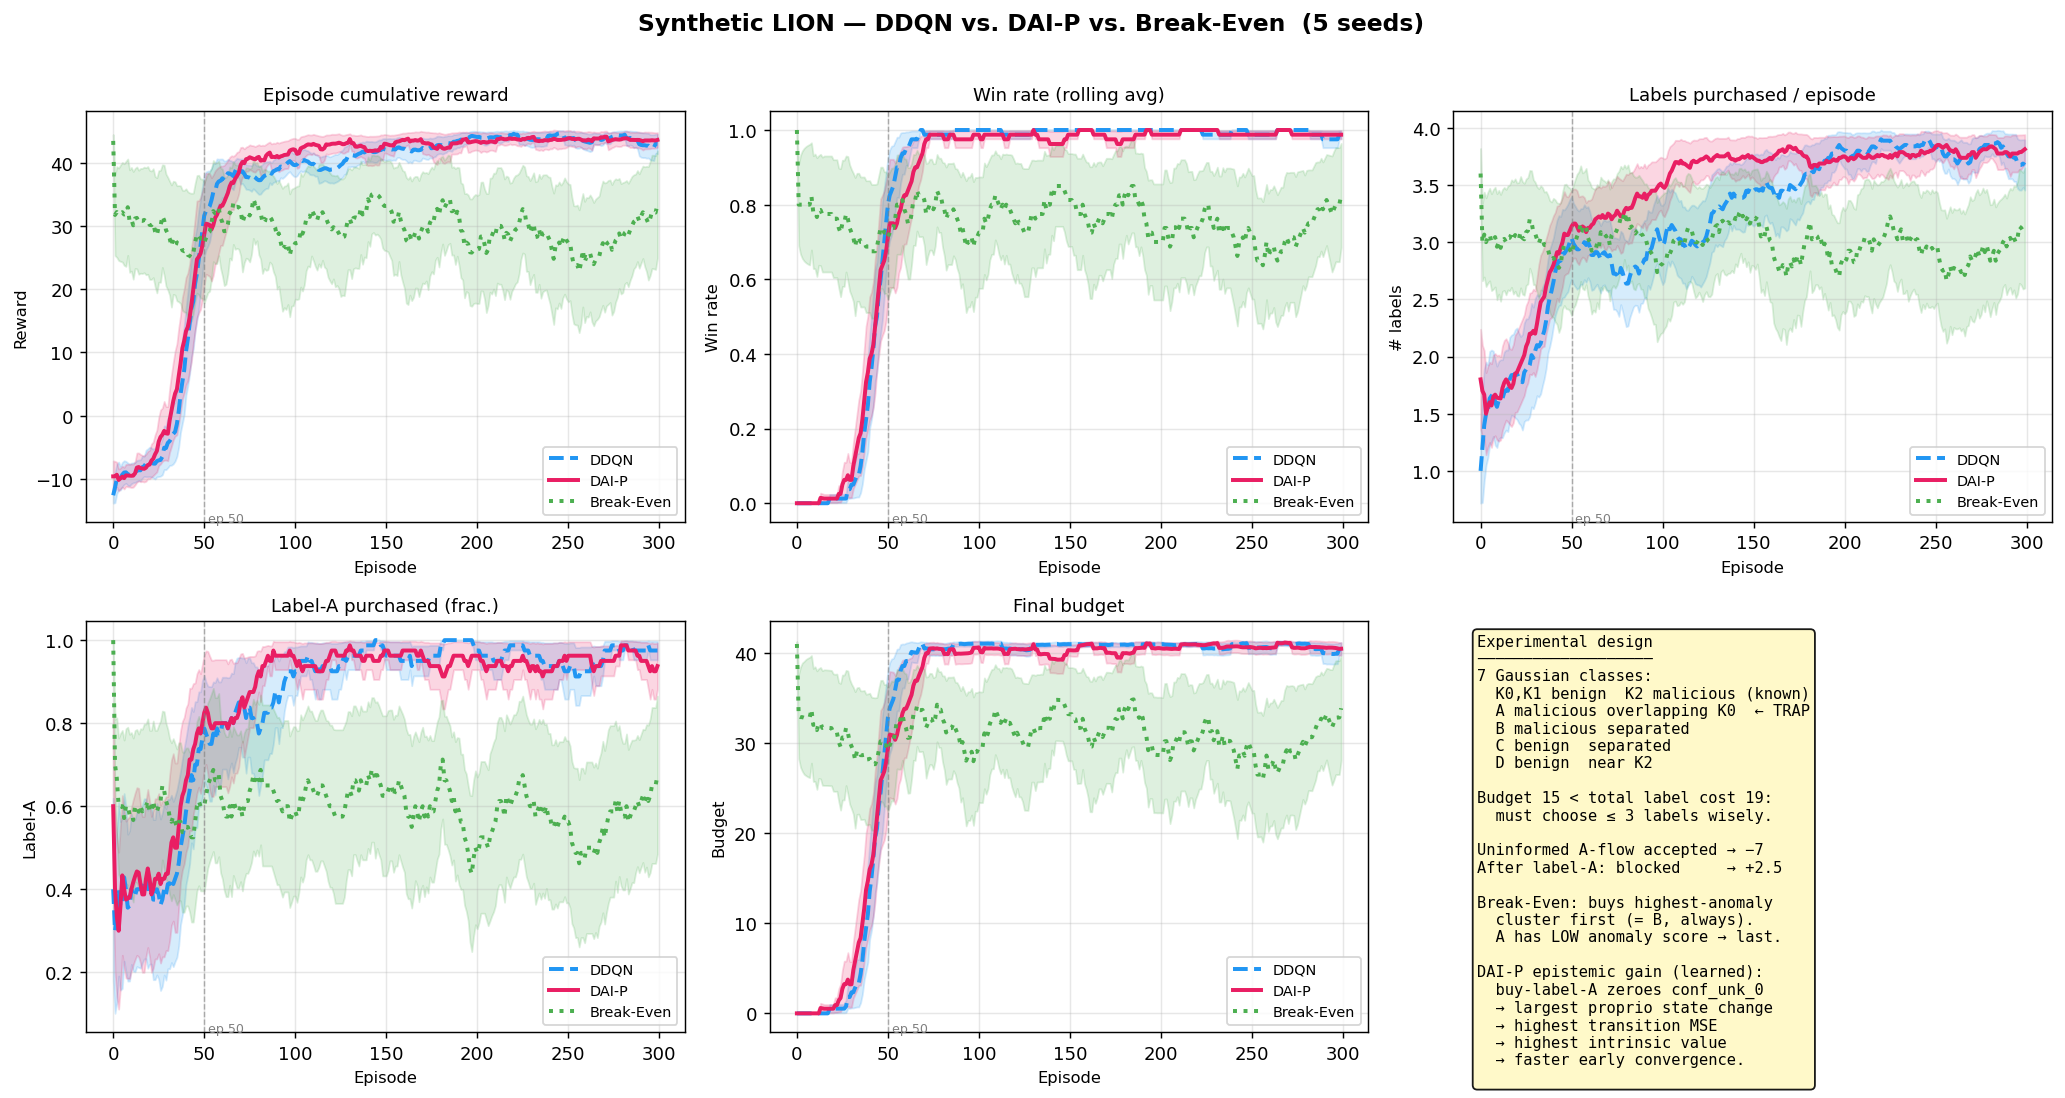
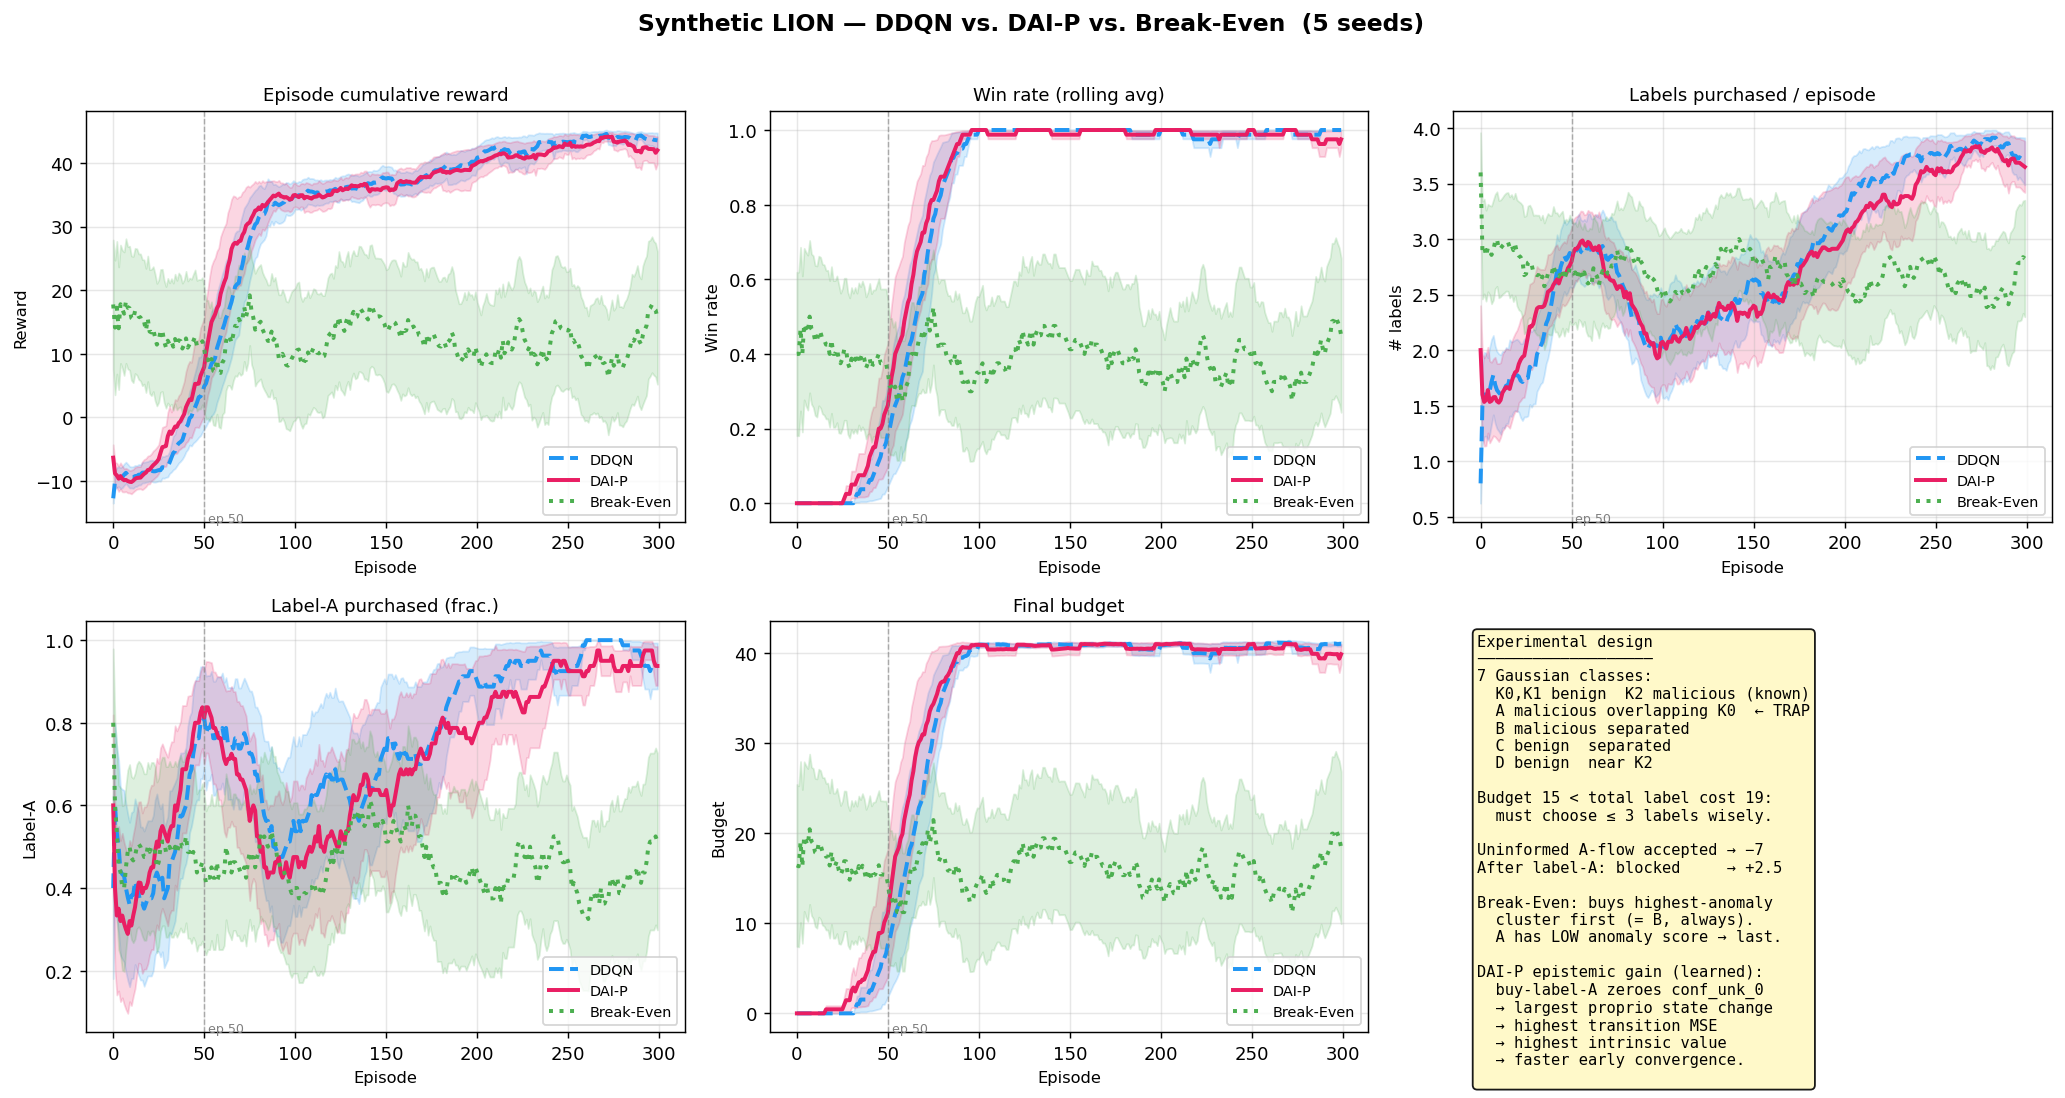
fixes and refacs

diff --git a/synthetic_lion.py b/synthetic_lion.py
@@ -157,7 +157,7 @@ CFG = dict(
     # zeroed) fires immediately — giving DAI-P its epistemic boost — but informed
     # rewards are withheld because the inference module hasn't integrated the label yet.
     # This dilutes DDQN's TD credit assignment while leaving DAI-P's advantage intact.
-    label_integration_lag = 15,
+    label_integration_lag = 30,
 
     # Inference module
     anomaly_threshold = 1.8,  # hidden-space L2 distance → anomaly if >
@@ -1132,10 +1132,11 @@ def _run_one(task: dict) -> dict:
         ep_labelA.append(int(stats.labels[0]))
         ep_budget.append(stats.budget_final)
 
-        for step_idx, uid in stats.label_buy_steps:
-            print(f'    [BUY] ep={ep:4d} seed={seed} {agent_name:10s} '
-                  f'→ uid={uid} ({dg.UNKNOWN_NAMES[uid]}/{dg.UNKNOWN_TYPES[uid]}) '
-                  f'step={step_idx:3d}  budget={stats.budget_final:.2f}', flush=True)
+        if verbose:
+            for step_idx, uid in stats.label_buy_steps:
+                print(f'    [BUY] ep={ep:4d} seed={seed} {agent_name:10s} '
+                    f'→ uid={uid} ({dg.UNKNOWN_NAMES[uid]}/{dg.UNKNOWN_TYPES[uid]}) '
+                    f'step={step_idx:3d}  budget={stats.budget_final:.2f}', flush=True)
 
         if log_interval > 0 and (ep + 1) % log_interval == 0:
             w  = log_interval
@@ -1361,7 +1362,7 @@ def main():
     parser.add_argument('--episodes',          type=int,  default=300)
     parser.add_argument('--seeds',             type=int,  default=5)
     parser.add_argument('--no-plot',           action='store_true')
-    parser.add_argument('--verbose',           action='store_true', default=True)
+    parser.add_argument('--verbose',           action='store_true', default=False)
     parser.add_argument('--log-interval',      type=int,  default=50,
                         help='Print running stats every N episodes (0=off)')
     # GPU / parallelism
